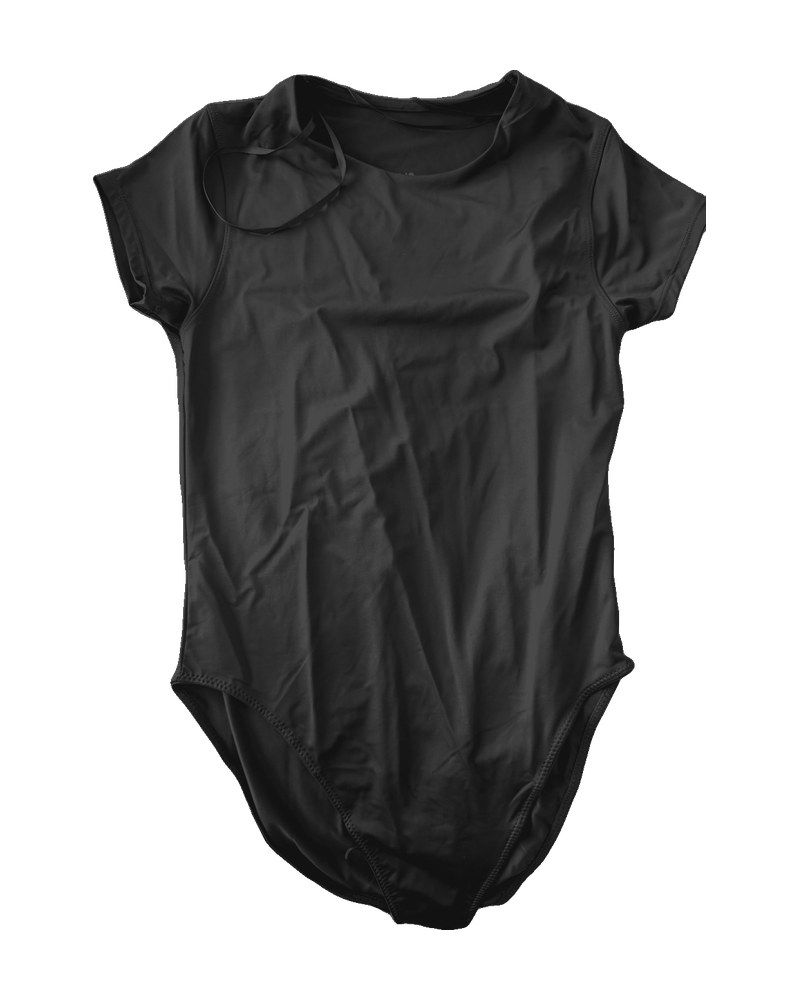
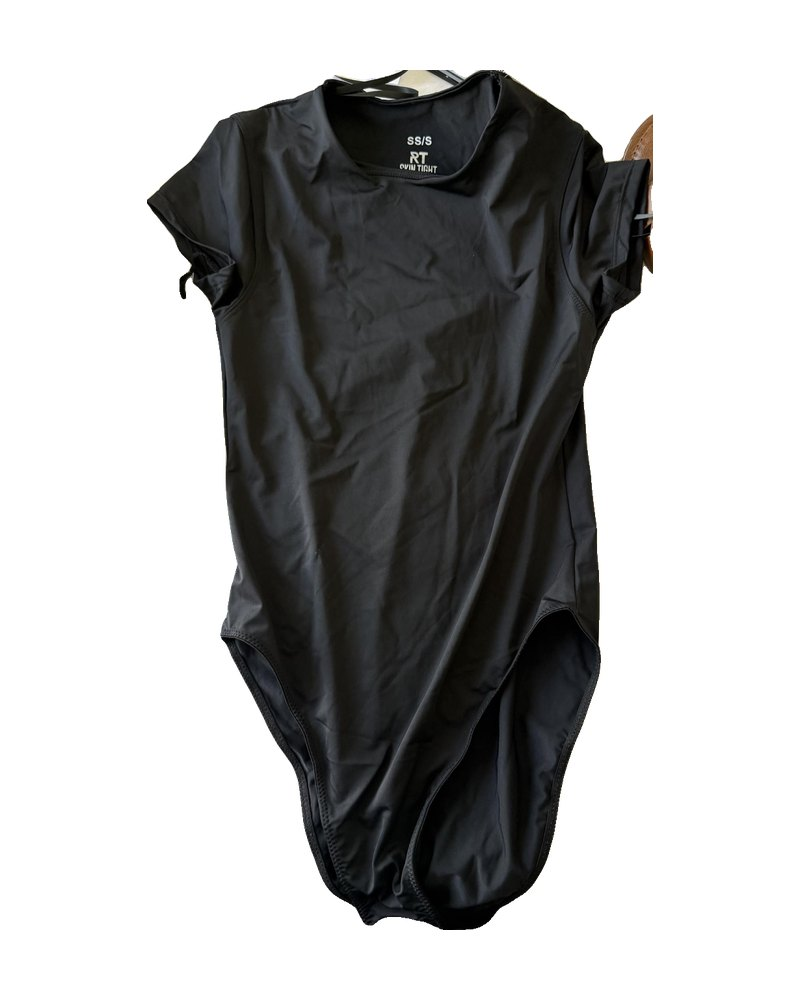
Lookbook: add Zara sandals and real black bodysuit photo
Claude-Session: https://claude.ai/code/session_014vvyB4dLxwTTyoZmkJQkPj

Changed region(s): [[0.125, 0.062, 0.9062, 0.93]]

diff --git a/lookbook/index.html b/lookbook/index.html
@@ -291,7 +291,7 @@ var I = {
   'brown-crochet-coverup':{ n: 'Brown crochet tie-front cover-up', s: 'Shein · Musera', img: 'brown-crochet-coverup' },
   'black-crochet-coverup':{ n: 'Black crochet tie-front cover-up (backup)', s: 'Shein · Musera', img: 'black-crochet-coverup' },
   // Shoes
-  'zara-sandals':        { n: 'Brown sandals', s: 'Wardrobe · Zara' },
+  'zara-sandals':        { n: 'Brown sandals', s: 'Wardrobe · Zara', img: 'zara-sandals' },
   'apricot-flats':       { n: 'Apricot crochet tie-ankle flats', s: 'Shein · Musera', img: 'apricot-flats' },
   'black-mesh-flats':    { n: 'Black mesh ballet flats', s: 'Shein · ADAMUMU', img: 'black-mesh-flats' },
   // Bags
